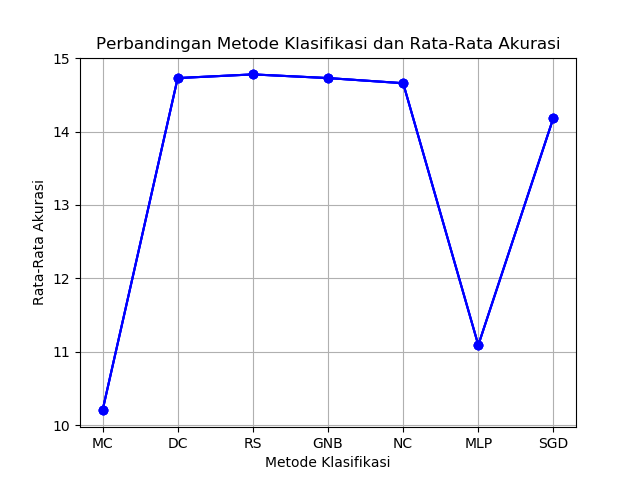
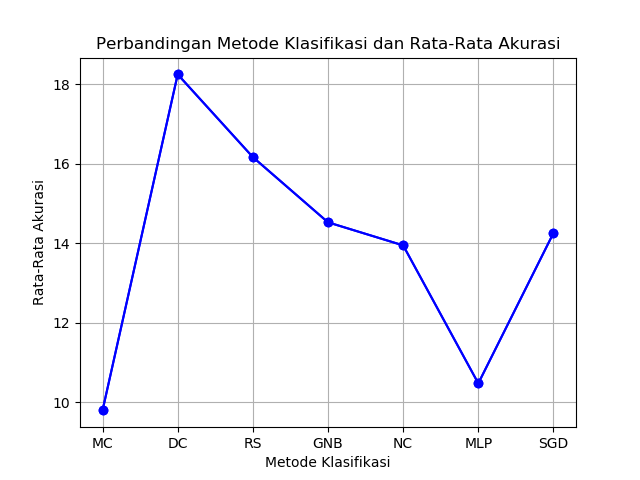
fix little bugs

diff --git a/test.py b/test.py
@@ -1,6 +1,6 @@
 import matplotlib.pyplot as plt 
 
-plt.plot([0, 1, 2, 3, 4, 5, 6], [10.2, 14.73, 14.78, 14.73, 14.66, 11.09, 14.19], linestyle='-', marker='o', color='b')
+plt.plot([0, 1, 2, 3, 4, 5, 6], [9.8, 18.25, 16.17, 14.53, 13.95, 10.48, 14.26], linestyle='-', marker='o', color='b')
 plt.xticks([0, 1, 2, 3, 4, 5, 6], ['MC', 'DC', 'RS', 'GNB', 'NC', 'MLP', 'SGD'])
 
 plt.xlabel('Metode Klasifikasi')

diff --git a/controllers/Ekspresi_wajah.py b/controllers/Ekspresi_wajah.py
@@ -985,8 +985,8 @@ class Ekspresi_wajah:
 			plt.ylabel('Rata-Rata Akurasi')
 			plt.title('Perbandingan Metode Klasifikasi dan Rata-Rata Akurasi')
 			plt.grid(True)
-			print(t)
 			path = os.getcwd() + '\\static\\data\\grafik\\metode_klasifikasi.png'
+			os.remove(path)
 			plt.savefig(path)
 
 		return Ekspresi_wajah.RT.tampilan_pengujian2(semua_hasil)
